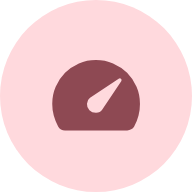
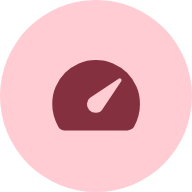
Íconos con los colores nuevos del estándar (rosa #FFCCD4, vino #84303F)
Claude-Session: https://claude.ai/code/session_01RxuB9vs623EuzMLeYyngVi

Changed region(s): [[0.25, 0.3125, 0.75, 0.6875]]

diff --git a/sw.js b/sw.js
@@ -1,6 +1,6 @@
 // Service worker: deja abrir el tablero sin internet con lo último descargado.
 // Si cambias los archivos de la lista, sube el número de versión (v1 -> v2).
-const VERSION = 'tanques-v27';
+const VERSION = 'tanques-v28';
 const ARCHIVOS = ['./', './index.html', './config.js', './manifest.webmanifest', './logo.jpg', './logo-crc.png', './icon-192.png', './icon-512.png', './icon-maskable-512.png'];
 
 self.addEventListener('install', e => {
